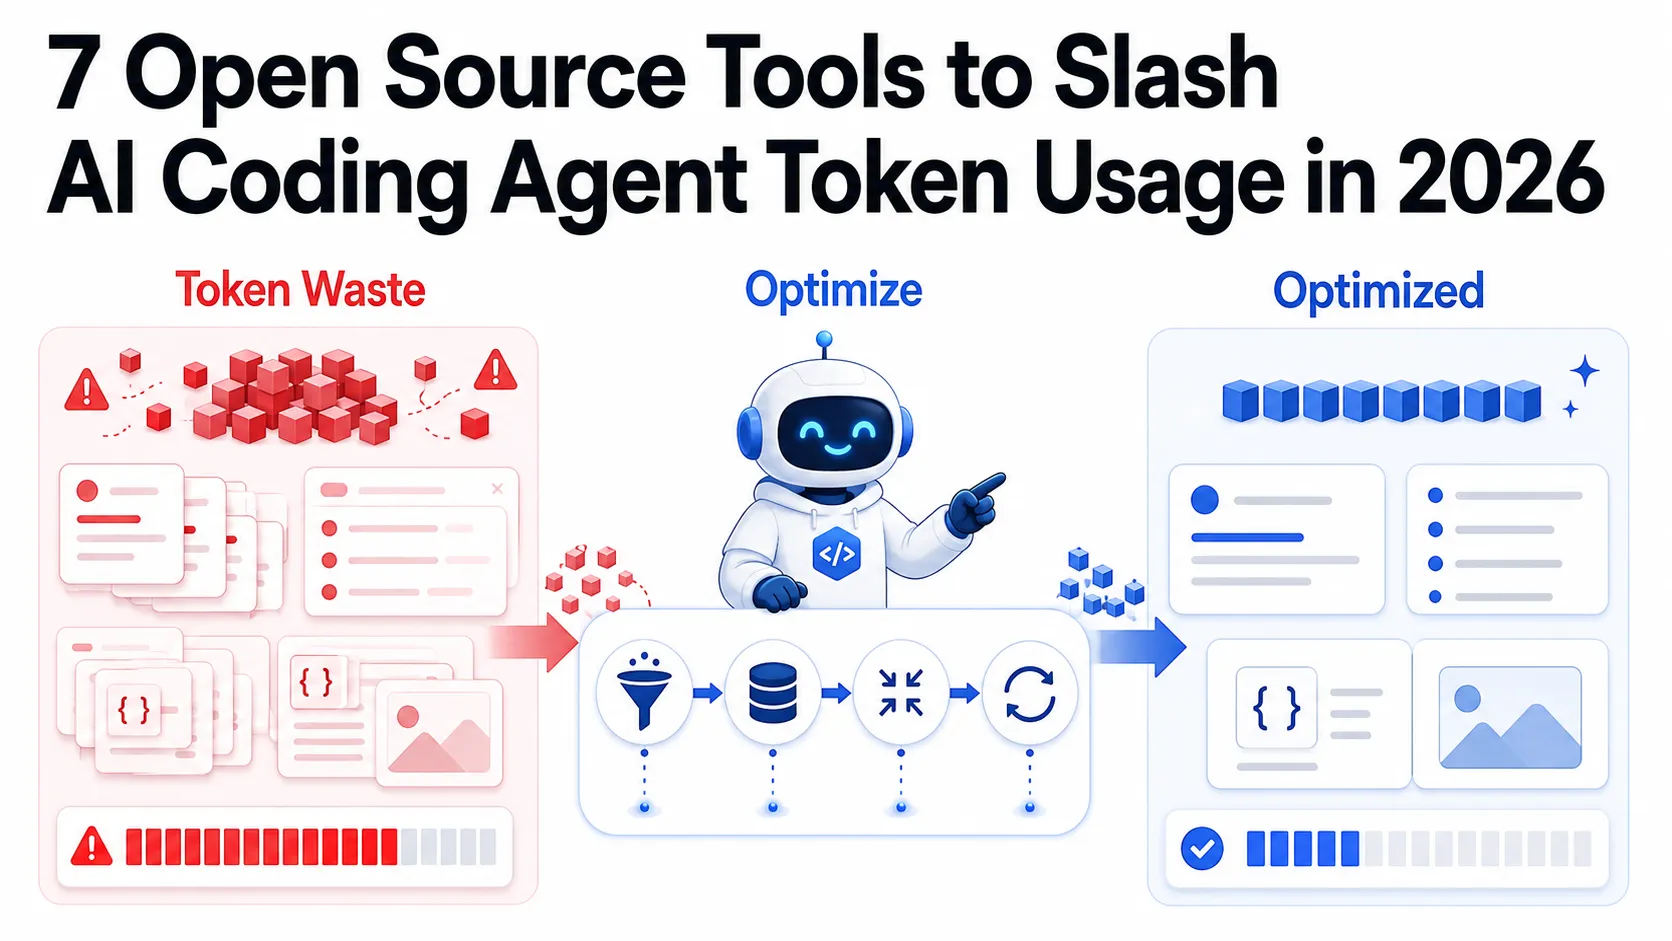
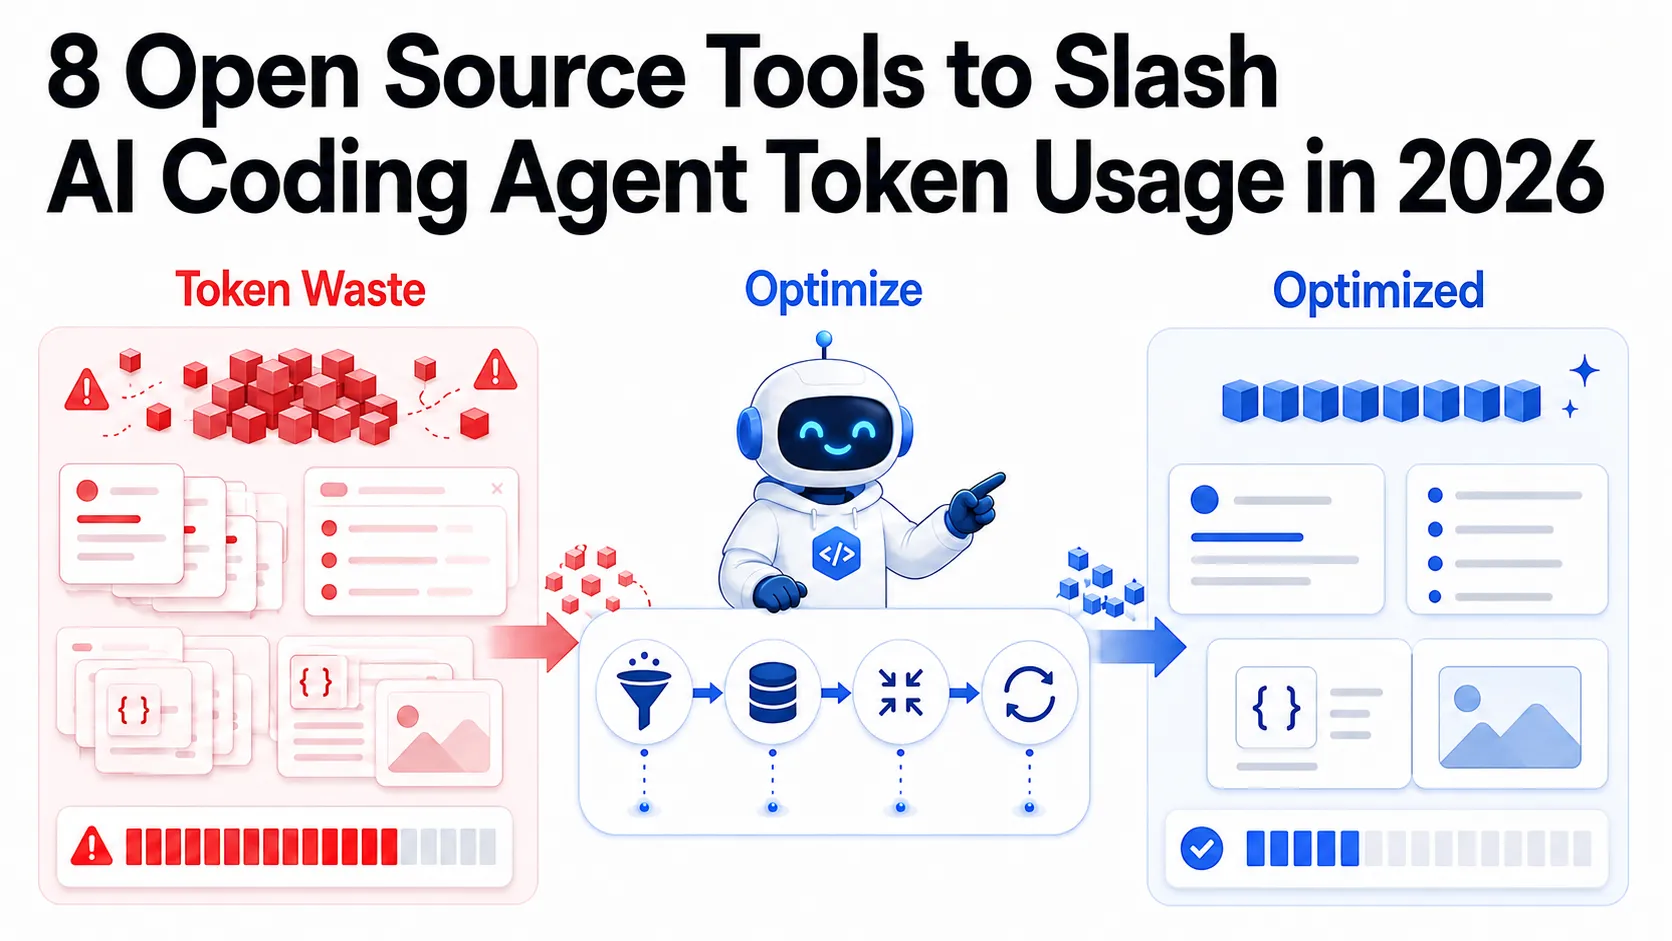
Add images and update blog posts on VoxCPM2 and AI coding agent token usage

diff --git a/content/blog/tools_to_reduce_ai_coding_agent_token_usage.md b/content/blog/tools_to_reduce_ai_coding_agent_token_usage.md
@@ -1,9 +1,9 @@
 ---
-title: "7 Open Source Tools to Slash AI Coding Agent Token Usage in 2026"
-description: "AI coding agents burn tokens fast. Here are the best open source tools - Graphify, Caveman, RAG pipelines, Continue.dev, and more - to cut context costs without losing quality."
+title: "8 Open Source Tools to Slash AI Coding Agent Token Usage in 2026"
+description: "AI coding agents burn tokens fast. Here are the best open source tools - Headroom, Graphify, Caveman, RAG pipelines, Continue.dev, and more - to cut context costs without losing quality."
 date: 2026-06-11T14:15:25+05:30
 draft: false
-tags: ["AI coding agents", "token optimization", "Graphify", "Caveman", "RAG", "Claude Code", "LLM cost reduction", "open source AI"]
+tags: ["AI coding agents", "token optimization", "Headroom", "Graphify", "Caveman", "RAG", "Claude Code", "LLM cost reduction", "open source AI"]
 categories: ["AI Tools", "Development", "Cost Optimization"]
 og_image: "images/tools_to_reduce_ai_coding_agent_token_usage/tools_to_reduce_ai_coding_agent_token_usage_banner.webp"
[1 lines of base64/hex data omitted]
@@ -12,7 +12,7 @@ outputs:
   - AMP
 ---
 
-{{< image "tools_to_reduce_ai_coding_agent_token_usage/tools_to_reduce_ai_coding_agent_token_usage_banner.webp" "7 Open Source Tools to Slash AI Coding Agent Token Usage in 2026" >}}
+{{< image "tools_to_reduce_ai_coding_agent_token_usage/tools_to_reduce_ai_coding_agent_token_usage_banner.webp" "8 Open Source Tools to Slash AI Coding Agent Token Usage in 2026" >}}
 
 Every AI coding agent session that feels "reasonable" is quietly burning through your token budget. What looks like a single task - "refactor this authentication module" - might involve 20 tool calls, each one re-sending the full conversation history plus whatever file contents got loaded along the way. An agentic loop that costs you 50,000 tokens in the first message routinely compounds to 500,000 tokens by the time it wraps up.
 
@@ -26,6 +26,9 @@ The good news is that the tooling to address this has matured significantly. The
 
 **Graph-based codebase understanding:**
 - <a href="https://github.com/safishamsi/graphify" target="_blank">Graphify</a> - Converts your codebase into a queryable knowledge graph so agents retrieve targeted context instead of reading entire files
+
+**Context compression layer:**
+- <a href="https://github.com/chopratejas/headroom" target="_blank">Headroom</a> - Drop-in compression layer for tool outputs, logs, files, and RAG chunks; 60-95% fewer tokens with reversible compression. Ships as a library, proxy, and MCP server
 
 **Output compression skills:**
 - <a href="https://github.com/JuliusBrussee/caveman" target="_blank">Caveman</a> - Claude Code skill that rewrites verbose agent responses into terse output; reported 65% average output token reduction
@@ -95,6 +98,40 @@ Caveman comes with multiple compression levels - `lite` for light trimming, `ful
 The commands are straightforward. `/caveman-commit` writes minimal commit messages. `/caveman-review` gives one-line PR feedback. `/caveman-compress` rewrites a memory file or CLAUDE.md section into a smaller form. The skill also ships as an MCP middleware wrapper that can compress tool descriptions before they reach the model.
 
 One important limitation: Caveman only reduces output tokens, not input tokens. It does not affect what the agent reads - only what it writes back. For workloads where input tokens dominate (large file reads, long conversation histories), Caveman alone will not solve the problem. It works best combined with the input-side tools covered in the next sections.
+
+## Headroom: A Compression Layer for Everything the LLM Reads
+
+
+{{< image "tools_to_reduce_ai_coding_agent_token_usage/headroom.webp" "Headroom" >}}
+
+<a href="https://github.com/chopratejas/headroom" target="_blank">Headroom</a> (Apache 2.0, 30.7k GitHub stars) addresses input token bloat at the source. It sits between your agent and the LLM provider as a context optimization layer, compressing tool outputs, system logs, files, and RAG chunks before they ever reach the model. The claimed reduction is 60-95% on real workloads, and benchmarks on code search, incident debugging, and issue triage show 47-92% in practice with no meaningful accuracy drop.
+
+The reason it can compress that aggressively without losing information is reversible compression (CCR): the original content is cached locally, and the model can retrieve it on demand when it needs full fidelity. What gets sent to the LLM is a dense representation; the original is never discarded.
+
+Headroom ships in three modes so you can integrate it without rewriting anything. The proxy mode is the easiest - point your existing OpenAI-compatible client at `localhost:8787` and all traffic is compressed transparently:
+
+```bash
+pip install "headroom-ai[all]"
+
+# Wrap a specific agent directly
+headroom wrap claude    # Claude Code
+headroom wrap aider    # Aider
+
+# Or run as a transparent proxy for any OpenAI-compatible client
+headroom proxy --port 8787
+```
+
+In Python:
+
+```python
+from headroom import compress
+
+compressed = compress(messages, model="claude-sonnet-4-6")
+```
+
+Under the hood, Headroom uses three content-aware algorithms: **SmartCrusher** for JSON and nested structured data, **CodeCompressor** for AST-aware code compression across Python, JavaScript, Go, Rust, Java, and C++, and **Kompress-base**, a HuggingFace model trained on agentic traces that handles prose and log output. Each type of content gets a compression strategy matched to its structure rather than a generic text-shrinking pass.
+
+Two features stand out beyond basic compression. The cross-agent memory store deduplicates context across agent sessions - if two steps read the same file, it is only counted once. And `CacheAligner` stabilizes prompt prefixes to maximize provider-side KV cache hits, which stacks with Anthropic's prompt caching discount. Run `headroom perf` after a day of usage to see the actual token savings on your own workloads.
 
 ## RAG-Based Context Retrieval
 
@@ -186,7 +223,7 @@ Running all of these simultaneously is possible, but starting with the highest-l
 
 For most developers using Claude Code or a similar agent daily, the immediate wins are `/compact` and `/clear` discipline (free, no setup), keeping CLAUDE.md files trim (free, no setup), and prompt caching on any system prompts you control (90% discount with a few lines of code). These three together can reduce a typical agent bill by 40-60% without touching any external tooling.
 
-The next tier adds Graphify if you work with large or unfamiliar codebases (graph-based retrieval replaces exploratory file reads), Caveman if your agent outputs tend to be verbose (compresses what feeds back into future context), and Continue.dev's RAG if you need fine-grained retrieval over your specific codebase.
+The next tier adds Headroom if you are dealing with verbose tool outputs or large RAG chunks (it compresses everything before it hits the model and stacks with prompt caching via CacheAligner), Graphify if you work with large or unfamiliar codebases (graph-based retrieval replaces exploratory file reads), Caveman if your agent outputs tend to be verbose (compresses what feeds back into future context), and Continue.dev's RAG if you need fine-grained retrieval over your specific codebase.
 
 Model routing via LiteLLM and semantic tool selection are most impactful for production pipelines where agent loops run hundreds or thousands of times - the setup cost is higher but the per-request savings compound. For personal development workflows, the first tier is usually enough.
 
@@ -194,6 +231,6 @@ The tools are not mutually exclusive. Graphify and RAG complement each other: Gr
 
 ## Conclusion
 
-Most of the token spend in an AI coding agent session comes from three things: re-sent conversation history, broad file reads, and verbose output feeding back into future steps. The tools here address each category - Graphify and RAG on the input side, Caveman on output, `/compact` and prompt caching on conversation state. All of them are open source and stackable. Start with the ones that match where your costs are actually going.
+Most of the token spend in an AI coding agent session comes from three things: re-sent conversation history, broad file reads, and verbose output feeding back into future steps. The tools here address each category - Headroom and RAG on the input side, Graphify for codebase navigation, Caveman on output, `/compact` and prompt caching on conversation state. All of them are open source and stackable. Start with the ones that match where your costs are actually going.
 
 For a deeper look at the models powering these agents, see our guide on {{< link href="/blog/best_open_source_self_hosted_llms_for_coding/" >}}best open source self-hosted LLMs for coding{{< /link >}}.

diff --git a/content/blog/run_voxcpm2_locally_expose_api_with_pinggy.md b/content/blog/run_voxcpm2_locally_expose_api_with_pinggy.md
@@ -1,13 +1,13 @@
 ---
-title: "Run VoxCPM2 Locally and Share Your Voice AI with Pinggy"
-description: "VoxCPM2 is a new 2B-parameter open-source TTS model with voice cloning, voice design from a text description, and a drop-in OpenAI-compatible API. Here's how to run it on your local GPU and expose it publicly with Pinggy."
+title: "Self-Host Free Voice AI with VoxCPM2 and Pinggy"
+description: "VoxCPM2 is a 2B-parameter open-source TTS model with voice cloning, voice design from a text description, and a drop-in OpenAI-compatible API. Here's how to run it on your local GPU and expose it publicly with Pinggy."
 date: 2026-06-16T12:00:00+05:30
 lastmod: 2026-06-15T12:00:00+05:30
 draft: false
 tags: ["VoxCPM2", "TTS", "voice AI", "voice cloning", "local AI", "self-hosted", "Pinggy", "OpenAI API", "vLLM"]
 categories: ["Technology", "AI Tools", "Self-Hosting"]
 og_image: "images/voxcpm2_local_tts/voxcpm2_banner.webp"
[2 lines of base64/hex data omitted]
 outputs:
   - HTML
   - AMP
@@ -15,7 +15,7 @@ outputs:
 
 {{< image "voxcpm2_local_tts/voxcpm2_banner.webp" "VoxCPM2 local TTS with Pinggy tunnel - run voice AI on your GPU and expose it publicly" >}}
 
-<a href="https://github.com/OpenBMB/VoxCPM" target="_blank">VoxCPM2</a> hit the top of GitHub trending this week with over 400 new stars in a single day. It is a 2-billion-parameter text-to-speech model from <a href="https://github.com/OpenBMB" target="_blank">OpenBMB</a> (the team behind MiniCPM) that does something most TTS systems still do not: it skips audio tokenization entirely and generates continuous speech representations end-to-end via a diffusion autoregressive architecture. The result is 48 kHz studio-quality audio, support for 30 languages, and three synthesis modes that go well beyond "type text, get audio."
+If you want high-quality text-to-speech without paying per-character rates to ElevenLabs or OpenAI, running an open-source model on your own GPU is the obvious alternative. <a href="https://github.com/OpenBMB/VoxCPM" target="_blank">VoxCPM2</a> is one of the more capable options available - a 2-billion-parameter TTS model from <a href="https://github.com/OpenBMB" target="_blank">OpenBMB</a> (the team behind MiniCPM) that does something most TTS systems still do not: it skips audio tokenization entirely and generates continuous speech representations end-to-end via a diffusion autoregressive architecture. The result is 48 kHz studio-quality audio, support for 30 languages, and three synthesis modes that go well beyond "type text, get audio."
 
 What makes it useful for developers is that it ships with a vLLM-based server that exposes a `/v1/audio/speech` endpoint - the same format as OpenAI's TTS API. If you have code that calls `openai.audio.speech.create`, you can point it at your local VoxCPM2 instance with a single config change.
 
@@ -219,10 +219,6 @@ The vLLM-Omni path (the OpenAI-compatible server) is Linux-only right now. macOS
 
 Voice Design voices are currently not persisted across server restarts - you generate, save the audio, and regenerate if you need the same voice again. The GitHub repo has an open issue tracking persistent voice IDs.
 
-## Wrapping up
+## Conclusion
 
-VoxCPM2 is the first open-source TTS model I have seen where Voice Design actually works reliably - describing a voice and getting something usable back without providing reference audio is genuinely new. The OpenAI-compatible API makes it a drop-in for anything already calling ElevenLabs or OpenAI TTS.
-
-The Pinggy tunnel is the last piece - it takes a localhost service and makes it accessible from anywhere in 30 seconds. The combination gives you a functional voice API on your own hardware, shareable with one command.
-
-The <a href="https://github.com/OpenBMB/VoxCPM" target="_blank">VoxCPM2 repository</a> has a cookbook section with voice cloning tips and a benchmark harness worth reading through once you have the basic setup working.
+Self-hosting voice AI used to mean stitching together mediocre models and fighting CUDA errors all afternoon. VoxCPM2 changes that: Voice Design, voice cloning, and an OpenAI-compatible API all work out of the box, and the Pinggy tunnel makes the whole thing publicly accessible in one command. If you have a GPU sitting idle, this is one of the better uses for it right now. The <a href="https://github.com/OpenBMB/VoxCPM" target="_blank">VoxCPM2 repository</a> has a cookbook section with voice cloning tips worth reading once the basic setup is running.
